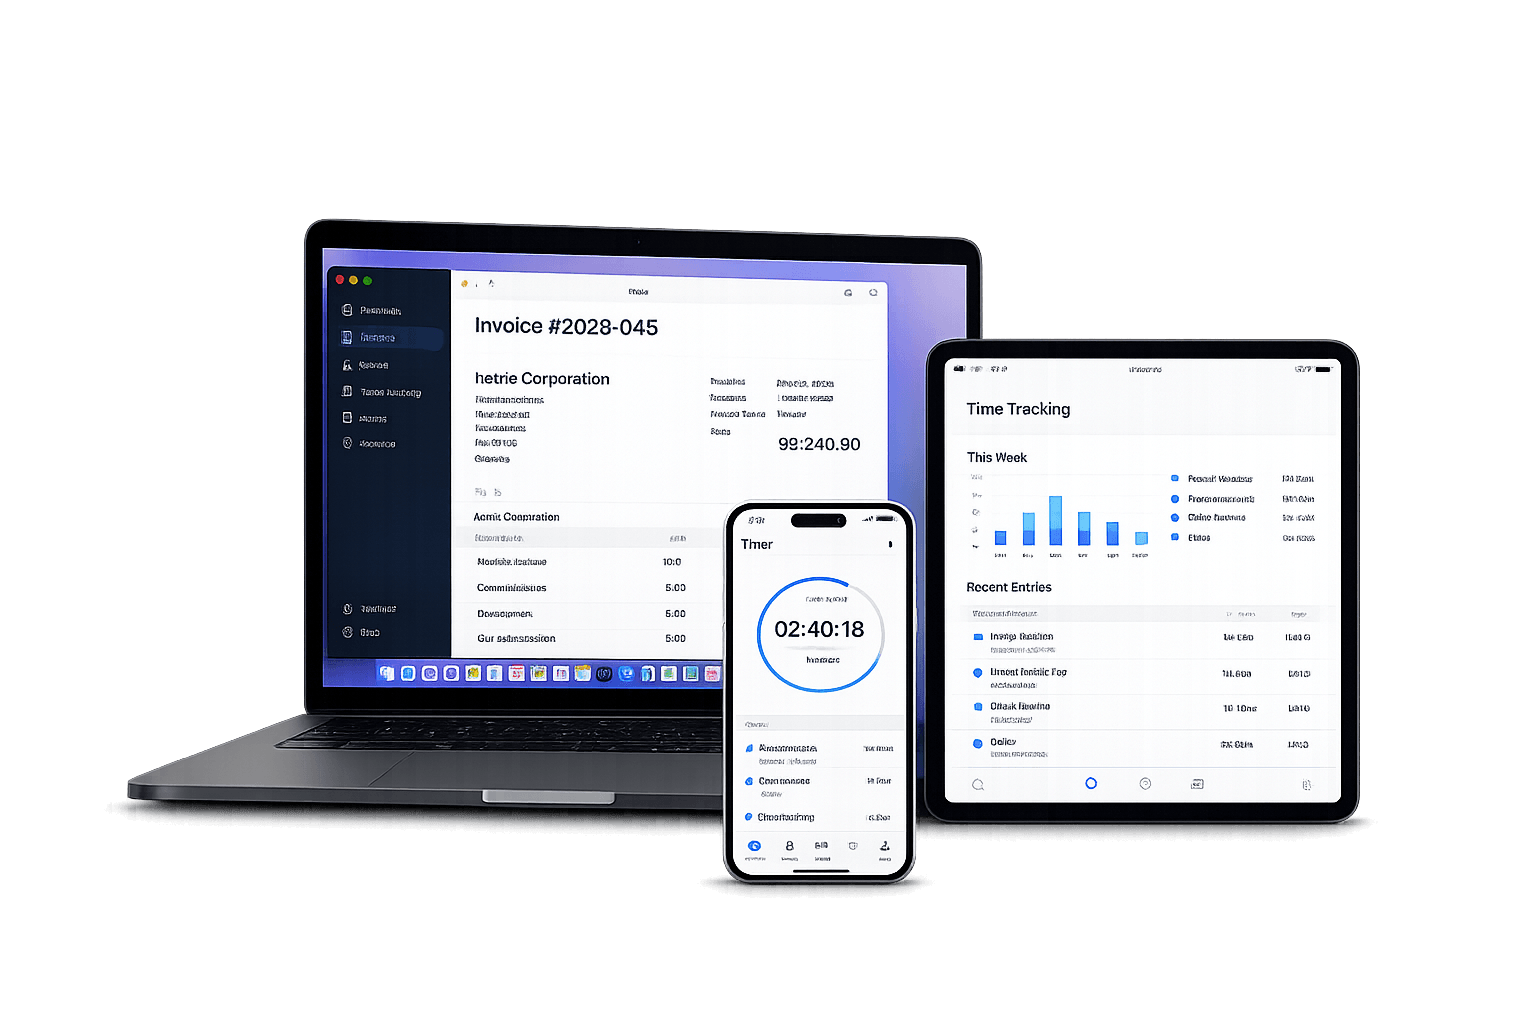
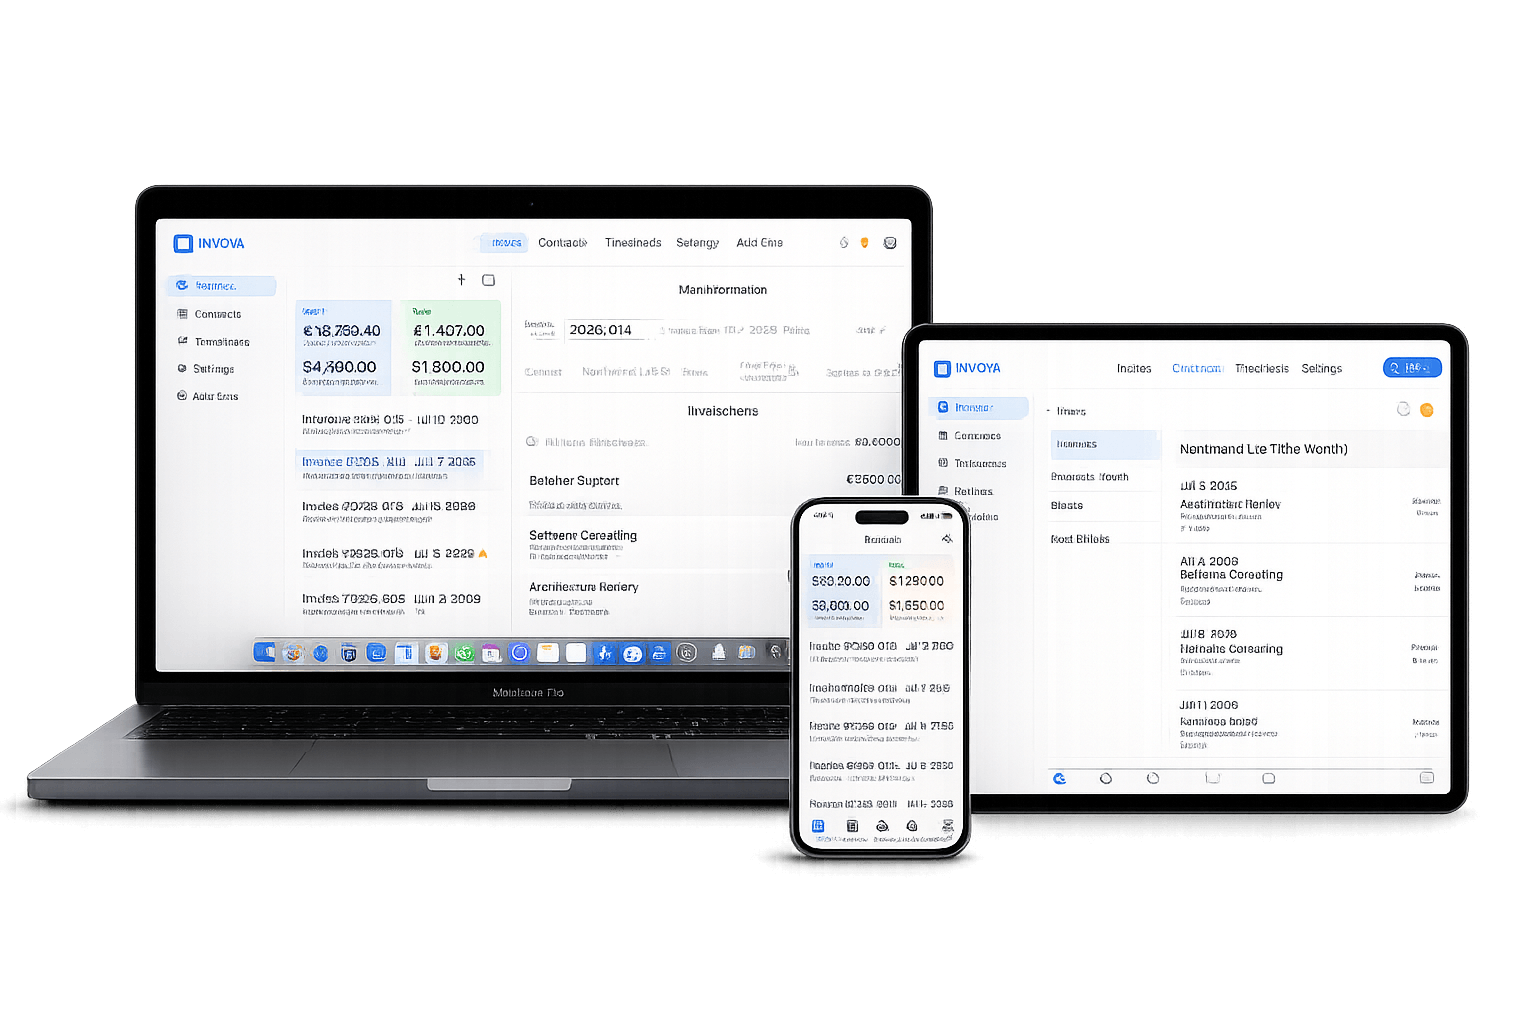
add seo-optimization

Changed region(s): [[0.0, 0.1562, 0.9688, 0.875], [0.375, 0.4062, 0.4062, 0.4375]]

diff --git a/src/app/page.tsx b/src/app/page.tsx
@@ -1,11 +1,65 @@
+import type { Metadata } from "next";
+
 import { Footer } from "@/components/layout/Footer/Footer";
 import { Header } from "@/components/layout/Header/Header";
 import { Features } from "@/components/sections/Features/Features";
 import { Hero } from "@/components/sections/Hero/Hero";
 
+import { openGraphImage, siteName, twitterImage } from "./seo";
+
+const pageTitle = "Invoya — Invoicing without the headache";
+const pageDescription =
+  "Invoya is a native invoicing and time-tracking app for Mac, iPhone and iPad. Build PDF invoices, track billable hours and sync privately through iCloud.";
+
+export const metadata: Metadata = {
+  title: pageTitle,
+  description: pageDescription,
+  alternates: {
+    canonical: "/",
+  },
+  openGraph: {
+    title: pageTitle,
+    description: pageDescription,
+    url: "/",
+    siteName,
+    locale: "en_US",
+    type: "website",
+    images: [openGraphImage],
+  },
+  twitter: {
+    card: "summary_large_image",
+    title: pageTitle,
+    description: pageDescription,
+    images: [twitterImage],
+  },
+};
+
+const softwareApplicationJsonLd = {
+  "@context": "https://schema.org",
+  "@type": "SoftwareApplication",
+  name: "Invoya",
+  applicationCategory: "BusinessApplication",
+  operatingSystem: "macOS, iOS, iPadOS",
+  description: pageDescription,
+  url: "https://invoya.app/",
+  creator: {
+    "@type": "Person",
+    name: "Aleksandr Gordienko",
+  },
+};
+
+const serializeJsonLd = (data: object) => JSON.stringify(data).replace(/</g, "\\u003c");
+
 export default function Home() {
   return (
     <>
+      <script
+        type="application/ld+json"
+        dangerouslySetInnerHTML={{
+          __html: serializeJsonLd(softwareApplicationJsonLd),
+        }}
+      />
+
       <Header />
 
       <main>

diff --git a/src/app/layout.tsx b/src/app/layout.tsx
@@ -2,7 +2,13 @@ import type { Metadata } from "next";
 import { Inter, Manrope } from "next/font/google";
 import type { ReactNode } from "react";
 
+import { openGraphImage, siteName, siteUrl, twitterImage } from "./seo";
+
 import "./globals.scss";
+
+const siteTitle = "Invoya — Invoicing without the headache";
+const siteDescription =
+  "A native invoicing and time-tracking app for Mac, iPhone and iPad. Build PDF invoices, track billable hours and sync privately through iCloud.";
 
 const manrope = Manrope({
   subsets: ["latin"],
@@ -17,8 +23,28 @@ const inter = Inter({
 });
 
 export const metadata: Metadata = {
-  title: "Invoya — Invoicing without the headache",
-  description: "A native invoicing and time-tracking app for Mac, iPhone and iPad.",
+  metadataBase: new URL(siteUrl),
+  applicationName: "Invoya",
+  title: siteTitle,
+  description: siteDescription,
+  alternates: {
+    canonical: "/",
+  },
+  openGraph: {
+    title: siteTitle,
+    description: siteDescription,
+    url: "/",
+    siteName,
+    locale: "en_US",
+    type: "website",
+    images: [openGraphImage],
+  },
+  twitter: {
+    card: "summary_large_image",
+    title: siteTitle,
+    description: siteDescription,
+    images: [twitterImage],
+  },
 };
 
 type RootLayoutProps = {

diff --git a/src/app/sitemap.ts b/src/app/sitemap.ts
@@ -1,0 +1,29 @@
+import type { MetadataRoute } from "next";
+
+import { siteUrl } from "./seo";
+
+export const dynamic = "force-static";
+const lastModified = new Date("2026-07-14");
+
+export default function sitemap(): MetadataRoute.Sitemap {
+  return [
+    {
+      url: `${siteUrl}/`,
+      lastModified,
+      changeFrequency: "monthly",
+      priority: 1,
+    },
+    {
+      url: `${siteUrl}/support/`,
+      lastModified,
+      changeFrequency: "monthly",
+      priority: 0.7,
+    },
+    {
+      url: `${siteUrl}/privacy/`,
+      lastModified,
+      changeFrequency: "yearly",
+      priority: 0.5,
+    },
+  ];
+}

diff --git a/src/app/privacy/page.tsx b/src/app/privacy/page.tsx
@@ -4,10 +4,32 @@ import { Footer } from "@/components/layout/Footer/Footer";
 import { Header } from "@/components/layout/Header/Header";
 import { InfoPage } from "@/components/layout/InfoPage/InfoPage";
 
+import { openGraphImage, siteName, twitterImage } from "../seo";
+
 export const metadata: Metadata = {
   title: "Privacy Policy | Invoya",
   description:
     "Learn how Invoya stores and protects your data and how the Invoya website handles analytics.",
+  alternates: {
+    canonical: "/privacy/",
+  },
+  openGraph: {
+    title: "Privacy Policy | Invoya",
+    description:
+      "Learn how Invoya stores and protects your data and how the Invoya website handles analytics.",
+    url: "/privacy/",
+    siteName,
+    locale: "en_US",
+    type: "website",
+    images: [openGraphImage],
+  },
+  twitter: {
+    card: "summary_large_image",
+    title: "Privacy Policy | Invoya",
+    description:
+      "Learn how Invoya stores and protects your data and how the Invoya website handles analytics.",
+    images: [twitterImage],
+  },
 };
 
 export default function PrivacyPage() {

diff --git a/src/app/support/page.tsx b/src/app/support/page.tsx
@@ -5,10 +5,32 @@ import { Footer } from "@/components/layout/Footer/Footer";
 import { Header } from "@/components/layout/Header/Header";
 import { InfoPage } from "@/components/layout/InfoPage/InfoPage";
 
+import { openGraphImage, siteName, twitterImage } from "../seo";
+
 export const metadata: Metadata = {
   title: "Support | Invoya",
   description:
     "Get help with Invoya, iCloud sync, timesheets, purchases and bug reports.",
+  alternates: {
+    canonical: "/support/",
+  },
+  openGraph: {
+    title: "Support | Invoya",
+    description:
+      "Get help with Invoya, iCloud sync, timesheets, purchases and bug reports.",
+    url: "/support/",
+    siteName,
+    locale: "en_US",
+    type: "website",
+    images: [openGraphImage],
+  },
+  twitter: {
+    card: "summary_large_image",
+    title: "Support | Invoya",
+    description:
+      "Get help with Invoya, iCloud sync, timesheets, purchases and bug reports.",
+    images: [twitterImage],
+  },
 };
 
 export default function SupportPage() {

diff --git a/src/app/seo.ts b/src/app/seo.ts
@@ -1,0 +1,16 @@
+export const siteUrl = "https://invoya.app";
+export const siteName = "Invoya";
+
+export const openGraphImage = {
+  url: "/opengraph-image.png",
+  width: 2043,
+  height: 1424,
+  alt: "Invoya invoicing and time-tracking app",
+};
+
+export const twitterImage = {
+  url: "/twitter-image.png",
+  width: 2043,
+  height: 1424,
+  alt: "Invoya invoicing and time-tracking app",
+};

diff --git a/src/app/robots.ts b/src/app/robots.ts
@@ -1,0 +1,15 @@
+import type { MetadataRoute } from "next";
+
+import { siteUrl } from "./seo";
+
+export const dynamic = "force-static";
+
+export default function robots(): MetadataRoute.Robots {
+  return {
+    rules: {
+      userAgent: "*",
+      allow: "/",
+    },
+    sitemap: `${siteUrl}/sitemap.xml`,
+  };
+}